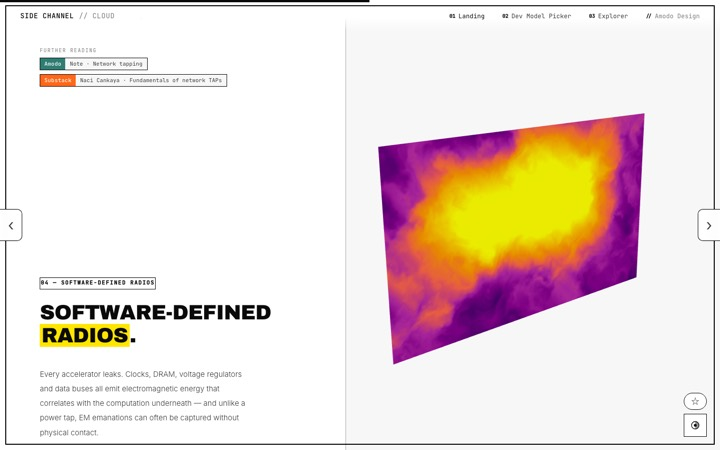
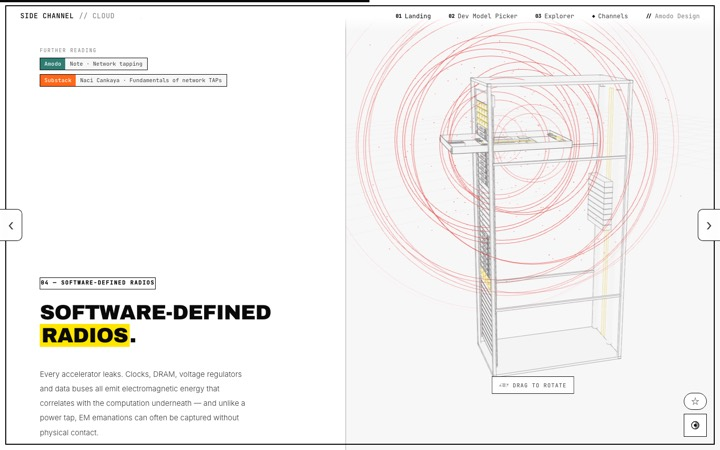
Channels: instrument-box overlay on a spinning rack + EM-from-rack SDR + #channels deeplink
- New 'emanate' stage mode: EM wavefronts (camera-facing expanding
  rings + drifting sparks) radiate from the rack's GPU/DRAM emitters;
  the wireframe rack stays visible. SDR section uses it.
- New 'channels' stage mode (brutal-multi): the wireframe rack spins in
  the background while each section's signal renders in an overlaid
  instrument box that fades with scroll focus, revealing the rack
  between sections. Instruments: oscilloscope (power), packet terminal
  (network TAPs), GPU-counter bars (bare metal), HOST->DPU->FPGA->SWITCH
  dataflow (reconfigurable); SDR shows EM with no box; intro/close show
  the bare rack.
- #channels deep-link (alias -> brutal-multi) honoured pre-paint on all
  pages, with hashchange handling and a "Channels" nav link.

Changed region(s): [[0.4889, 0.0311, 0.9167, 0.8711], [0.825, 0.7778, 0.8556, 0.8089], [0.825, 0.0311, 0.8556, 0.0622]]

diff --git a/src/scripts/stage-modes.js b/src/scripts/stage-modes.js
@@ -1027,7 +1027,301 @@ function multiMode(env) {
   };
 }
 
-const MODES = { points: pointsMode, exploded: explodedMode, ascii: asciiMode, ortho: orthoMode, flux: fluxMode, voxel: voxelMode, stamp: stampMode, glitch: glitchMode, slices: slicesMode, scope: scopeMode, heatfield: heatfieldMode, logstream: logstreamMode, topo: topoMode, orbital: orbitalMode, multi: multiMode };
+
+// ---------------------------------------------------------------------------
+// emanate — the rack wireframe stays; EM wavefronts radiate from its GPU/DRAM
+// emitter points as expanding, camera-facing rings (+ drifting EM sparks)
+// ---------------------------------------------------------------------------
+function emanateMode({ viewer, ctrl }) {
+  const theme = currentTheme();
+  const em = theme.emanate || {};
+  const col = new THREE.Color(em.color != null ? em.color : 0x5fd4e8);
+  const dark = theme.dark !== false;
+  ctrl.setOpacity(em.rackOpacity != null ? em.rackOpacity : 0.5);
+
+  const root = ctrl.root;
+  viewer.modelRoot.updateMatrixWorld(true);
+  root.updateMatrixWorld(true);
+
+  // emitter points: GPU + memory mesh centres, expressed in modelRoot space
+  const wp = new THREE.Vector3();
+  let pts = [];
+  root.traverse((o) => {
+    if (!o.isMesh) return;
+    const t = o.userData.tag;
+    if (t === 'gpu' || t === 'memory') {
+      o.getWorldPosition(wp);
+      pts.push(viewer.modelRoot.worldToLocal(wp.clone()));
+    }
+  });
+  if (pts.length > 12) {
+    const step = Math.floor(pts.length / 12);
+    pts = pts.filter((_, i) => i % step === 0).slice(0, 12);
+  }
+  const bb = new THREE.Box3().setFromObject(root);
+  if (!pts.length) {
+    const c = bb.getCenter(new THREE.Vector3()), sz = bb.getSize(new THREE.Vector3());
+    for (let i = 0; i < 6; i++) pts.push(new THREE.Vector3(c.x, bb.min.y + sz.y * (i + 0.5) / 6, c.z));
+  }
+  const maxR = bb.getBoundingSphere(new THREE.Sphere()).radius * 0.95;
+
+  const group = new THREE.Group();
+  viewer.modelRoot.add(group);
+
+  // unit circle geometry shared by every ring
+  const seg = 72, cp = [];
+  for (let i = 0; i <= seg; i++) { const a = (i / seg) * Math.PI * 2; cp.push(Math.cos(a), Math.sin(a), 0); }
+  const circleGeo = new THREE.BufferGeometry();
+  circleGeo.setAttribute('position', new THREE.Float32BufferAttribute(cp, 3));
+
+  const RINGS = 26;
+  const rings = [];
+  for (let i = 0; i < RINGS; i++) {
+    const mat = new THREE.LineBasicMaterial({ color: col.clone(), transparent: true, opacity: 0,
+      depthWrite: false, blending: dark ? THREE.AdditiveBlending : THREE.NormalBlending });
+    const line = new THREE.Line(circleGeo, mat);
+    group.add(line);
+    rings.push({ line, mat, origin: pts[i % pts.length].clone(), phase: i / RINGS });
+  }
+
+  // drifting EM sparks travelling outward from emitters
+  const SP = 220;
+  const sgeo = new THREE.BufferGeometry();
+  sgeo.setAttribute('position', new THREE.BufferAttribute(new Float32Array(SP * 3), 3));
+  const smat = new THREE.PointsMaterial({ color: col.clone(), size: maxR / 90, transparent: true,
+    opacity: dark ? 0.8 : 0.7, depthWrite: false, blending: dark ? THREE.AdditiveBlending : THREE.NormalBlending });
+  const sparks = new THREE.Points(sgeo, smat);
+  group.add(sparks);
+  const sattr = sgeo.attributes.position;
+  const sp = [];
+  for (let i = 0; i < SP; i++) {
+    const o = pts[(i * 7) % pts.length];
+    const dir = new THREE.Vector3(Math.random() * 2 - 1, Math.random() * 2 - 1, Math.random() * 2 - 1).normalize();
+    sp.push({ o, dir, t: Math.random(), v: 0.004 + Math.random() * 0.01 });
+  }
+
+  let intensity = 1;
+  const parentQ = new THREE.Quaternion(), parentInv = new THREE.Quaternion(), v = new THREE.Vector3();
+
+  return {
+    handlesHighlight: true,
+    onScroll(p, tags) {
+      // brightest while the SDR subsystem is spotlit
+      const set = new Set(tags);
+      intensity = (set.has('gpu') || set.has('memory') || set.size === 0) ? 1 : 0.4;
+    },
+    onFrame() {
+      viewer.modelRoot.getWorldQuaternion(parentQ);
+      parentInv.copy(parentQ).invert();
+      const billboard = parentInv.clone().multiply(viewer.camera.quaternion);
+      for (const r of rings) {
+        r.phase += 0.005;
+        if (r.phase >= 1) { r.phase = 0; r.origin = pts[(Math.random() * pts.length) | 0].clone(); }
+        r.line.position.copy(r.origin);
+        r.line.scale.setScalar(Math.max(0.001, r.phase * maxR));
+        r.line.quaternion.copy(billboard);
+        r.mat.opacity = Math.sin(r.phase * Math.PI) * 0.7 * intensity;
+      }
+      for (let i = 0; i < SP; i++) {
+        const s = sp[i];
+        s.t += s.v;
+        if (s.t >= 1) s.t = 0;
+        v.copy(s.dir).multiplyScalar(s.t * maxR * 0.9).add(s.o);
+        sattr.array[i * 3] = v.x; sattr.array[i * 3 + 1] = v.y; sattr.array[i * 3 + 2] = v.z;
+      }
+      sattr.needsUpdate = true;
+      smat.opacity = (dark ? 0.8 : 0.7) * intensity;
+    },
+    dispose() {
+      viewer.modelRoot.remove(group);
+      circleGeo.dispose(); sgeo.dispose(); smat.dispose();
+      rings.forEach((r) => r.mat.dispose());
+      ctrl.setOpacity(1);
+    },
+  };
+}
+
+
+// ---------------------------------------------------------------------------
+// channels — a spinning wireframe rack stays in the background; each section's
+// signal renders inside an overlaid instrument box that fades with scroll, so
+// the rack is revealed between sections. The SDR section is the exception: it
+// runs the 3D 'emanate' effect (EM waves off the rack) with no box.
+// ---------------------------------------------------------------------------
+function channelsMode({ viewer, ctrl, stage }) {
+  ctrl.setOpacity(0.5);
+  const css = getComputedStyle(document.documentElement);
+  const ACC = (css.getPropertyValue('--terra').trim()) || '#e3342f';
+  const INK = (css.getPropertyValue('--cream').trim()) || '#111111';
+  const TXT = (css.getPropertyValue('--text').trim()) || '#333333';
+  const FNT = (css.getPropertyValue('--text-faint').trim()) || '#888888';
+
+  const overlay = document.createElement('div');
+  overlay.className = 'ch-overlay';
+  overlay.innerHTML =
+    '<div class="ch-box"><div class="ch-head"><span class="ch-title"></span><span class="ch-dot"></span></div>' +
+    '<canvas class="ch-canvas"></canvas><div class="ch-term"></div></div>';
+  stage.appendChild(overlay);
+  const box = overlay.querySelector('.ch-box');
+  const title = overlay.querySelector('.ch-title');
+  const cv = overlay.querySelector('.ch-canvas');
+  const term = overlay.querySelector('.ch-term');
+  const ctx = cv.getContext('2d');
+
+  function sizeCanvas() {
+    const r = cv.getBoundingClientRect();
+    const dpr = Math.min(window.devicePixelRatio || 1, 2);
+    cv.width = Math.max(1, r.width * dpr); cv.height = Math.max(1, r.height * dpr);
+    ctx.setTransform(dpr, 0, 0, dpr, 0, 0);
+  }
+  window.addEventListener('resize', sizeCanvas);
+
+  const LABELS = { scope: 'OSCILLOSCOPE · DC BUS', packets: 'NETWORK TAP · PACKET FEED',
+    counters: 'HOST · GPU HARDWARE COUNTERS', dataflow: 'DATA PATH · RECONFIGURABLE HW' };
+
+  // ---- terminal (packets) ----
+  let termTimer = null;
+  const r2 = () => Math.random();
+  const pad = (v, n) => String(v).padStart(n, '0');
+  function ts() { const d = new Date(); return pad(d.getHours(),2)+':'+pad(d.getMinutes(),2)+':'+pad(d.getSeconds(),2)+'.'+pad(d.getMilliseconds(),3); }
+  function packetLine() {
+    const lines = [
+      'tap0/p'+(r2()*72|0)+'  '+(40+r2()*360|0)+'B  '+(r2()>0.5?'RoCEv2':'TCP')+'  seq '+(r2()*1e6|0)+'  ok',
+      'nvsw'+(1+(r2()*9|0))+'/p'+(r2()*72|0)+'  tx '+(1.0+r2()*0.8).toFixed(2)+'TB/s  crc 0  replay '+(r2()>0.94?1:0),
+      'verifier  digest '+(r2().toString(16).slice(2,10))+'  attest ok',
+      r2()>0.9 ? '<b class="warn">flag</b>  unexpected egress '+(r2()*72|0)+' -> ext' : 'fabric  bisection '+(118+r2()*11).toFixed(0)+'TB/s  stable',
+    ];
+    return lines[(r2()*lines.length)|0];
+  }
+  function startTerm() {
+    term.innerHTML = '<div class="ch-line head">network tap · rack mgx-07 · mirrored span</div>';
+    termTimer = setInterval(() => {
+      const d = document.createElement('div'); d.className = 'ch-line';
+      d.innerHTML = '<span class="t">' + ts() + '</span> ' + packetLine();
+      term.appendChild(d);
+      while (term.children.length > 80) term.removeChild(term.firstChild);
+      term.scrollTop = term.scrollHeight;
+    }, 150);
+  }
+  function stopTerm() { if (termTimer) clearInterval(termTimer); termTimer = null; term.innerHTML = ''; }
+
+  // ---- canvas instruments ----
+  let t = 0;
+  function drawScope() {
+    const w = cv.clientWidth, h = cv.clientHeight; if (!w) return;
+    ctx.clearRect(0, 0, w, h);
+    ctx.strokeStyle = FNT; ctx.globalAlpha = 0.35; ctx.lineWidth = 1;
+    for (let i = 0; i <= 10; i++) { const x = i / 10 * w; ctx.beginPath(); ctx.moveTo(x, 0); ctx.lineTo(x, h); ctx.stroke(); }
+    for (let i = 0; i <= 6; i++) { const y = i / 6 * h; ctx.beginPath(); ctx.moveTo(0, y); ctx.lineTo(w, y); ctx.stroke(); }
+    ctx.globalAlpha = 1;
+    const N = 260;
+    ctx.strokeStyle = INK; ctx.lineWidth = 2; ctx.beginPath();
+    for (let i = 0; i <= N; i++) { const x = i / N * w; const xn = i / N * Math.PI * 2;
+      const sq = (Math.sin(xn * 5 + t * 2.4) > 0 ? 0.55 : -0.55) + Math.sin(xn * 40 + t * 18) * 0.06;
+      const y = h / 2 - sq * h * 0.36; i ? ctx.lineTo(x, y) : ctx.moveTo(x, y); }
+    ctx.stroke();
+    ctx.strokeStyle = ACC; ctx.lineWidth = 1.5; ctx.beginPath();
+    for (let i = 0; i <= N; i++) { const x = i / N * w; const xn = i / N * Math.PI * 2;
+      const y = h / 2 - Math.sin(xn * 3 + t * 1.1) * Math.cos(xn + t * 0.4) * h * 0.18;
+      i ? ctx.lineTo(x, y) : ctx.moveTo(x, y); }
+    ctx.stroke();
+  }
+  const COUNTERS = ['SM ACTIVE', 'TENSOR', 'HBM BW', 'NVLINK', 'PCIe', 'POWER'];
+  function drawCounters() {
+    const w = cv.clientWidth, h = cv.clientHeight; if (!w) return;
+    ctx.clearRect(0, 0, w, h);
+    const n = COUNTERS.length, pad = 14, bx = 132, bw = w - bx - pad - 56;
+    const rowH = (h - pad * 2) / n;
+    ctx.font = '11px "JetBrains Mono", monospace'; ctx.textBaseline = 'middle';
+    for (let i = 0; i < n; i++) {
+      const y = pad + i * rowH + rowH / 2;
+      const val = 0.45 + 0.5 * (0.5 + 0.5 * Math.sin(t * (0.8 + i * 0.21) + i));
+      ctx.fillStyle = TXT; ctx.textAlign = 'left'; ctx.fillText(COUNTERS[i], pad, y);
+      ctx.globalAlpha = 0.25; ctx.fillStyle = FNT; ctx.fillRect(bx, y - 5, bw, 10); ctx.globalAlpha = 1;
+      ctx.fillStyle = i === n - 1 ? ACC : INK; ctx.fillRect(bx, y - 5, bw * val, 10);
+      ctx.fillStyle = TXT; ctx.textAlign = 'right'; ctx.fillText((val * 100).toFixed(0) + '%', w - pad, y);
+    }
+  }
+  const BLOCKS = ['HOST', 'DPU', 'FPGA', 'SWITCH'];
+  let flow = [];
+  for (let i = 0; i < 26; i++) flow.push(Math.random());
+  function drawDataflow() {
+    const w = cv.clientWidth, h = cv.clientHeight; if (!w) return;
+    ctx.clearRect(0, 0, w, h);
+    const n = BLOCKS.length, bw = 92, gap = (w - 28 - n * bw) / (n - 1), y = h / 2, bh = 52;
+    const xs = [];
+    for (let i = 0; i < n; i++) xs.push(14 + i * (bw + gap));
+    ctx.strokeStyle = FNT; ctx.globalAlpha = 0.5; ctx.lineWidth = 1.5;
+    ctx.beginPath(); ctx.moveTo(xs[0] + bw, y); ctx.lineTo(xs[n - 1], y); ctx.stroke(); ctx.globalAlpha = 1;
+    for (let i = 0; i < n; i++) {
+      ctx.strokeStyle = INK; ctx.lineWidth = 2; ctx.strokeRect(xs[i], y - bh / 2, bw, bh);
+      ctx.fillStyle = INK; ctx.font = '12px "JetBrains Mono", monospace'; ctx.textAlign = 'center'; ctx.textBaseline = 'middle';
+      ctx.fillText(BLOCKS[i], xs[i] + bw / 2, y);
+    }
+    const x0 = xs[0] + bw, x1 = xs[n - 1];
+    ctx.fillStyle = ACC;
+    for (let i = 0; i < flow.length; i++) { flow[i] += 0.006; if (flow[i] > 1) flow[i] -= 1;
+      const x = x0 + (x1 - x0) * flow[i]; ctx.beginPath(); ctx.arc(x, y, 2.4, 0, Math.PI * 2); ctx.fill(); }
+  }
+
+  // ---- channel state ----
+  function chFor(tags) {
+    const set = new Set(tags);
+    if (set.has('power') || set.has('busbar')) return 'scope';
+    if (set.has('nic') || set.has('interconnect')) return 'packets';
+    if (set.has('memory') || set.has('gpu')) return 'em';
+    if (set.has('cpu') || set.has('pcb') || set.has('drive')) return 'counters';
+    if (set.has('connector') || set.has('cable')) return 'dataflow';
+    return 'none';
+  }
+  let channel = 'init', emAdapter = null;
+  function setChannel(c) {
+    if (c === channel) return;
+    if (channel === 'em' && emAdapter) { emAdapter.dispose(); emAdapter = null; ctrl.setOpacity(0.5); }
+    if (channel === 'packets') stopTerm();
+    channel = c;
+    if (c === 'em') { emAdapter = createStageAdapter('emanate', { viewer, ctrl, stage }); return; }
+    if (c === 'none') return;
+    title.textContent = LABELS[c] || '';
+    cv.style.display = c === 'packets' ? 'none' : 'block';
+    term.style.display = c === 'packets' ? 'block' : 'none';
+    requestAnimationFrame(sizeCanvas);
+    if (c === 'packets') startTerm();
+  }
+
+  function sectionFocus() {
+    const secs = document.querySelectorAll('.section');
+    const mid = window.innerHeight / 2; let best = Infinity;
+    for (const s of secs) { const r = s.getBoundingClientRect(); const d = Math.abs((r.top + r.bottom) / 2 - mid); if (d < best) best = d; }
+    return Math.max(0, Math.min(1, 1 - best / (window.innerHeight * 0.42)));
+  }
+
+  return {
+    handlesHighlight: true,
+    onScroll(p, tags) { setChannel(chFor(tags)); if (emAdapter && emAdapter.onScroll) emAdapter.onScroll(p, tags); },
+    onFrame() {
+      t += 1 / 60;
+      if (emAdapter && emAdapter.onFrame) emAdapter.onFrame();
+      const boxed = channel === 'scope' || channel === 'packets' || channel === 'counters' || channel === 'dataflow';
+      const f = boxed ? sectionFocus() : 0;
+      box.style.opacity = f.toFixed(3);
+      box.style.transform = 'translateY(' + ((1 - f) * 26).toFixed(1) + 'px)';
+      box.style.pointerEvents = f > 0.6 ? 'auto' : 'none';
+      if (boxed && f > 0.03) {
+        if (channel === 'scope') drawScope();
+        else if (channel === 'counters') drawCounters();
+        else if (channel === 'dataflow') drawDataflow();
+      }
+    },
+    dispose() {
+      window.removeEventListener('resize', sizeCanvas);
+      if (emAdapter) emAdapter.dispose();
+      stopTerm(); overlay.remove(); ctrl.setOpacity(1);
+    },
+  };
+}
+
+const MODES = { points: pointsMode, exploded: explodedMode, ascii: asciiMode, ortho: orthoMode, flux: fluxMode, voxel: voxelMode, stamp: stampMode, glitch: glitchMode, slices: slicesMode, scope: scopeMode, heatfield: heatfieldMode, logstream: logstreamMode, topo: topoMode, orbital: orbitalMode, emanate: emanateMode, channels: channelsMode, multi: multiMode };
 
 export function createStageAdapter(modeId, env) {
   const fn = MODES[modeId];

diff --git a/src/styles/style.css b/src/styles/style.css
@@ -432,3 +432,35 @@ h1, h2, h3 { font-family: var(--display); font-weight: 300; color: var(--cream);
 /* extra reference-chip brands */
 .ref.amodo b { background: #2f7d72; }   /* Amodo notes — teal */
 .ref.rg b { background: #00a99d; }       /* ResearchGate — teal-green */
+
+/* ---- Channels: overlaid instrument box over the spinning rack ---- */
+.ch-overlay { position: absolute; inset: 0; z-index: 3; display: flex;
+  align-items: center; justify-content: center; pointer-events: none; }
+.ch-box {
+  width: min(74%, 560px); height: 56%;
+  display: flex; flex-direction: column; overflow: hidden;
+  background: var(--glass); border: 1px solid var(--border); border-radius: 12px;
+  opacity: 0; will-change: opacity, transform; backdrop-filter: blur(3px);
+}
+.ch-head { display: flex; align-items: center; justify-content: space-between;
+  padding: 10px 14px; border-bottom: 1px solid var(--border-soft);
+  font-family: var(--mono); font-size: 10.5px; letter-spacing: 0.14em;
+  text-transform: uppercase; color: var(--text-dim); }
+.ch-dot { width: 8px; height: 8px; border-radius: 50%; background: var(--terra);
+  box-shadow: 0 0 0 0 var(--terra); animation: ch-pulse 1.6s ease-out infinite; }
+@keyframes ch-pulse { 0% { box-shadow: 0 0 0 0 rgba(212,101,79,0.5); } 100% { box-shadow: 0 0 0 7px rgba(212,101,79,0); } }
+.ch-canvas { flex: 1; width: 100%; display: block; }
+.ch-term { flex: 1; overflow: hidden; padding: 12px 14px; font-family: var(--mono);
+  font-size: 11px; line-height: 1.7; color: var(--text-dim); display: none; }
+.ch-term .ch-line .t { color: var(--text-faint); margin-right: 8px; }
+.ch-term .ch-line b { font-style: normal; }
+.ch-term .ch-line .warn { color: var(--terra); }
+.ch-term .ch-line.head { color: var(--cream); border-bottom: 1px solid var(--border-soft); padding-bottom: 6px; margin-bottom: 6px; }
+
+/* brutalist hard-edge treatment for the instrument box */
+[data-theme^="brutal-"] .ch-box { border: 2px solid #000; border-radius: 0; box-shadow: 7px 7px 0 #000; background: rgba(255,255,255,0.9); }
+[data-theme^="brutal-"] .ch-dot { background: #e3342f; }
+[data-theme^="brutal-"] .ch-head { color: #0a0a0a; font-weight: 700; }
+
+/* a Channels nav link, lightly distinguished */
+.navlinks a.chan::before { content: "◆ "; color: var(--terra); }

diff --git a/src/scripts/themes-families.js b/src/scripts/themes-families.js
@@ -68,20 +68,21 @@ registerThemes([
   {
     ...BRUTAL_BASE, id: 'brutal-multi', name: 'Channels', blurb: 'FLIR, terminal, contours — per section',
     swatches: ['#ffffff', '#0a0a0a', '#e3342f'],
-    stageMode: 'multi', model: 'gb200-nvl72',
+    stageMode: 'channels', model: 'gb200-nvl72',
     multi: {
       default: 'topo',
       map: [
         // order matters: first match wins. Tags mirror each section's topic.
         { tags: ['power', 'busbar'], mode: 'scope' },        // power: DC-bus trace
         { tags: ['nic', 'interconnect'], mode: 'logstream' }, // network TAPs: packet feed
-        { tags: ['memory', 'gpu'], mode: 'heatfield' },       // SDR / EM: emanation field
+        { tags: ['memory', 'gpu'], mode: 'emanate' },        // SDR / EM: waves off the rack
         { tags: ['cpu', 'pcb', 'drive'], mode: 'voxel' },     // bare metal: the machine
         { tags: ['connector', 'cable'], mode: 'flux' },       // reconfigurable: data through inserted HW
       ],
     },
     topo: { ink: 0x0a0a0a, paper: 0xffffff, mark: 0xe3342f },
     scope: { trace: 0x0a0a0a, trace2: 0xe3342f, grid: 0xd6d6d6 },
+    emanate: { color: 0xe3342f, rackOpacity: 0.42 },
     flux: { power: 0xb88a00, coolant: 0x00657a, fabric: 0x5a00b8 },
     voxel: { div: 50 },
   },

diff --git a/src/scripts/theme-picker.js b/src/scripts/theme-picker.js
@@ -27,6 +27,17 @@ function toggleShortlist(id) {
 export function mountThemePicker() {
   bootTheme();
 
+  // #channels (and #<themeId> / ?theme=) deep-links
+  window.addEventListener('hashchange', () => {
+    const alias = { channels: 'brutal-multi' };
+    const h = location.hash.replace('#', '');
+    const id = alias[h] || h;
+    if (id && THEMES.some((t) => t.id === id) && id !== currentThemeId()) {
+      applyTheme(id);
+      location.reload();
+    }
+  });
+
   const root = document.createElement('div');
   root.className = 'theme-picker';
   root.innerHTML = `
